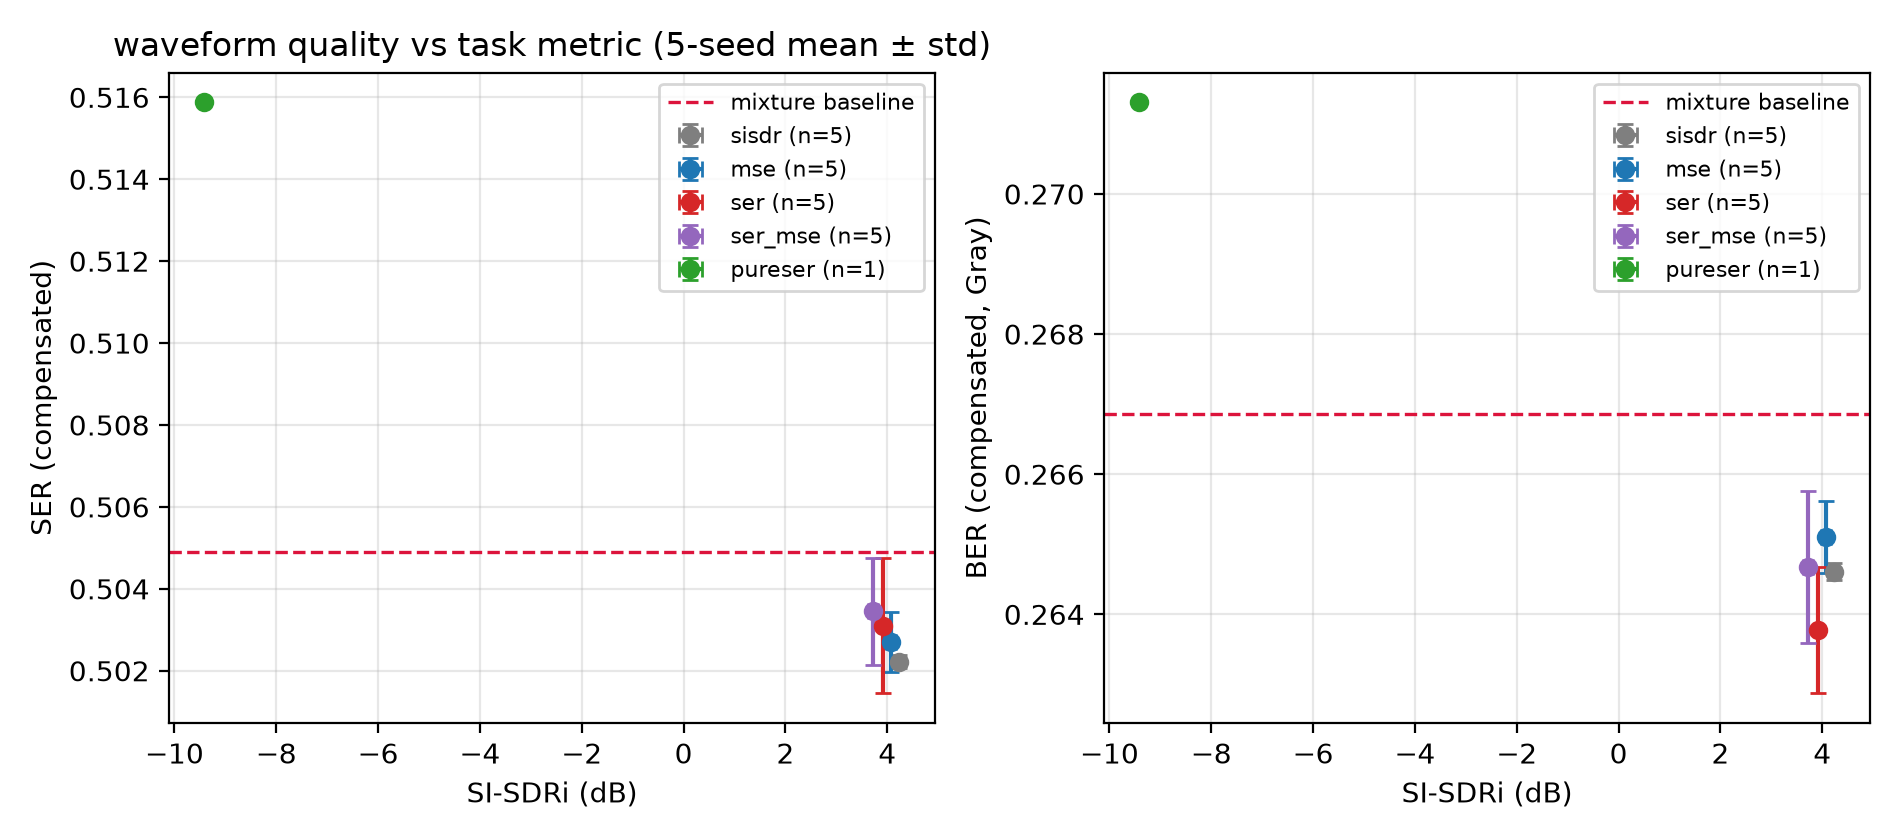
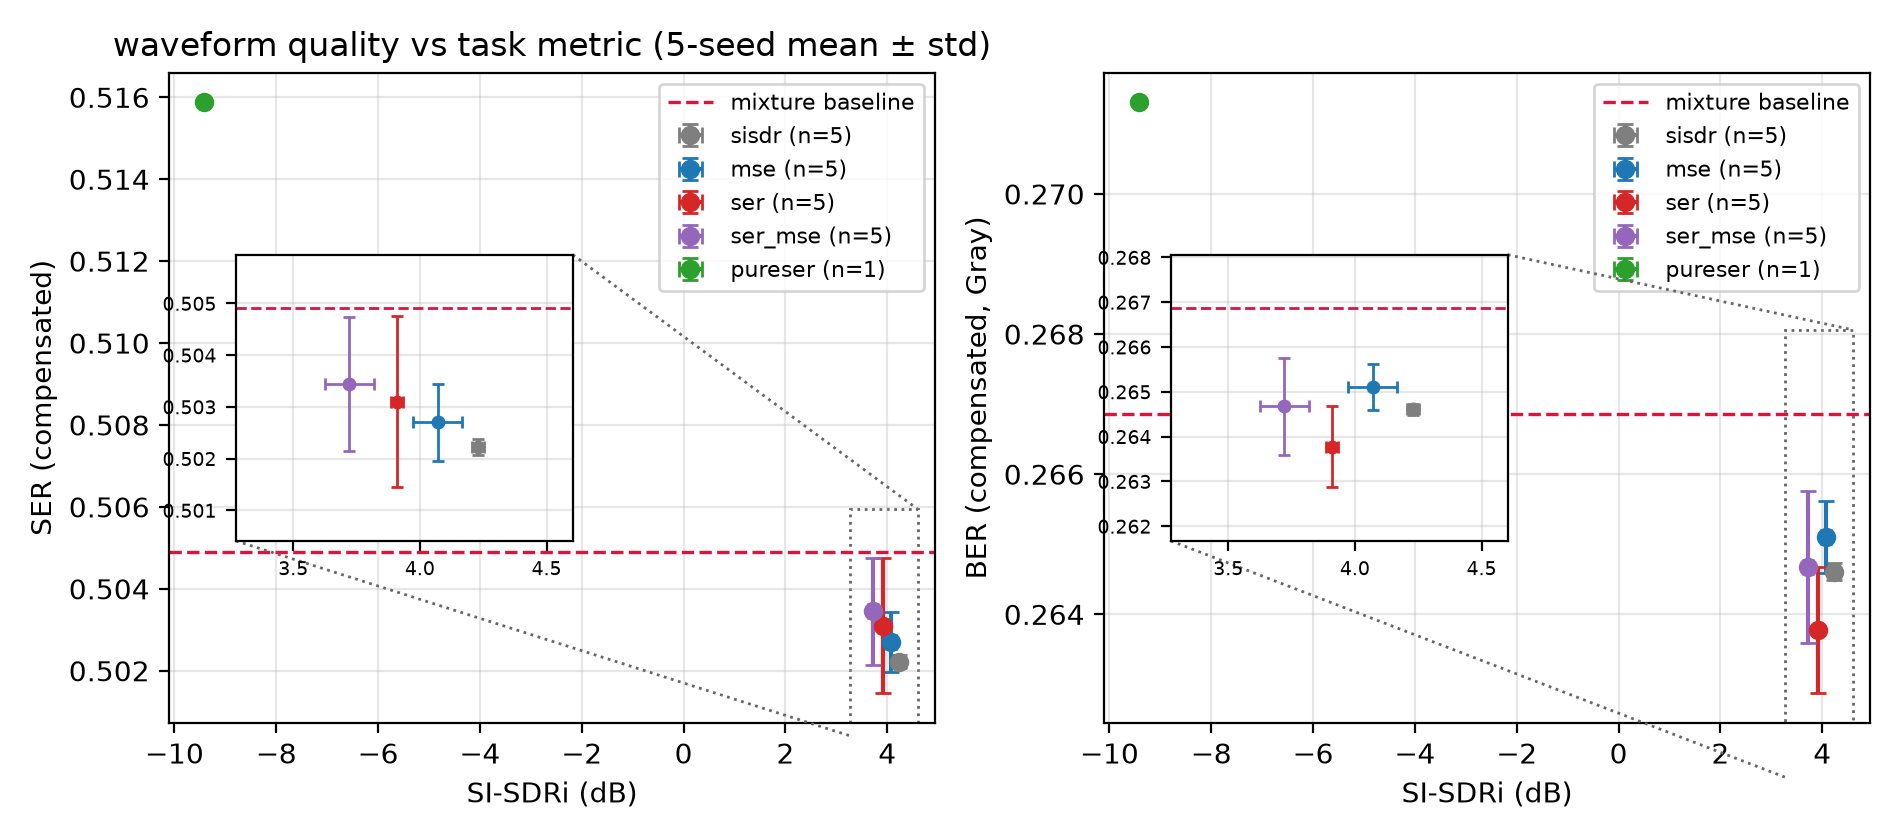
paper5: add zoom inset to S2 Pareto figure; log Fig.1/Eq.2 manuscript fixes
- analyze_s2.py: per-panel zoom inset on the four trained configs
  (pureser outlier excluded), auto zoom range from mean+-std, baseline
  line kept inside inset
- EXPERIMENT_LOG: record Fig.1 gradient-arrow fix, waveform-loss box,
  Eq.2 indicator glyph fix, and this inset change

diff --git a/paper5_task_oriented/analyze_s2.py b/paper5_task_oriented/analyze_s2.py
@@ -166,11 +166,14 @@ def main():
         json.dump(out, f, indent=2)
 
     # ---------------- Pareto figure ----------------
+    from mpl_toolkits.axes_grid1.inset_locator import inset_axes, mark_inset
     fig, axes = plt.subplots(1, 2, figsize=(9.5, 4.2))
     colors = {'sisdr': 'tab:gray', 'mse': 'tab:blue', 'ser': 'tab:red',
               'ser_mse': 'tab:purple', 'pureser': 'tab:green'}
     for ax, key, ylab in ((axes[0], 'ser_comp', 'SER (compensated)'),
                           (axes[1], 'ber_comp', 'BER (compensated, Gray)')):
+        ybase = base['overall'] if key == 'ser_comp' else base['overall_ber']
+        zoom_pts = []          # (mean_x, mean_y, std_x, std_y), trained only
         for c in CONFIGS:
             subs = runs[c]
             if not subs:
@@ -180,14 +183,40 @@ def main():
             ax.errorbar(np.mean(x), np.mean(y), xerr=np.std(x),
                         yerr=np.std(y), fmt='o', color=colors[c],
                         capsize=3, label=f'{c} (n={len(subs)})')
-        ax.axhline(base['overall'] if key == 'ser_comp'
-                   else base['overall_ber'],
-                   color='crimson', ls='--', lw=1.2, label='mixture baseline')
+            if c != 'pureser':
+                zoom_pts.append((np.mean(x), np.mean(y),
+                                 np.std(x), np.std(y)))
+        ax.axhline(ybase, color='crimson', ls='--', lw=1.2,
+                   label='mixture baseline')
         ax.set_xlabel('SI-SDRi (dB)')
         ax.set_ylabel(ylab)
         ax.grid(alpha=0.3)
         ax.legend(fontsize=8)
-        # annotation: lower-left is better (lower SER/BER)
+
+        # zoom inset on the four trained configs (pureser outlier excluded)
+        zp = np.array(zoom_pts)
+        x_lo = (zp[:, 0] - zp[:, 2]).min() - 0.35
+        x_hi = (zp[:, 0] + zp[:, 2]).max() + 0.35
+        y_lo = min((zp[:, 1] - zp[:, 3]).min(), ybase)
+        y_hi = max((zp[:, 1] + zp[:, 3]).max(), ybase)
+        y_pad = 0.3 * (y_hi - y_lo)
+        axins = inset_axes(ax, width='44%', height='44%',
+                           loc='center left', borderpad=2.4)
+        for c in CONFIGS:
+            subs = runs[c]
+            if not subs or c == 'pureser':
+                continue
+            x = [s['separation']['si_sdri'] for s in subs.values()]
+            y = [s['separation'][key] for s in subs.values()]
+            axins.errorbar(np.mean(x), np.mean(y), xerr=np.std(x),
+                           yerr=np.std(y), fmt='o', color=colors[c],
+                           capsize=2, ms=4, lw=1)
+        axins.axhline(ybase, color='crimson', ls='--', lw=1)
+        axins.set_xlim(x_lo, x_hi)
+        axins.set_ylim(y_lo - y_pad, y_hi + y_pad)
+        axins.grid(alpha=0.3)
+        axins.tick_params(labelsize=7)
+        mark_inset(ax, axins, loc1=1, loc2=3, fc='none', ec='0.4', ls=':')
     axes[0].set_title('waveform quality vs task metric (5-seed mean ± std)')
     fig.tight_layout()
     os.makedirs(FIGS, exist_ok=True)

diff --git a/paper5_task_oriented/EXPERIMENT_LOG.md b/paper5_task_oriented/EXPERIMENT_LOG.md
@@ -929,3 +929,37 @@ training proxy），虚线橙箭头回传梯度；oracle 侧信息（s_k/f_k/m_k
 终版排版注意：图宽 17.2cm，final,3p 下应改用 figure* 跨栏
 （main.tex 中已留 NOTE 注释）。编译：review 41 页 / final 3p 17 页
 （≤20），无 ?? 引用。
+
+## 2026-09-10 Fig. 1 修订轮（梯度箭头方向 + 左下填充）
+
+反馈：gradients 虚线箭头末端指向错误（原 `|-` 路径末段为水平，
+箭头贴着 separator 右缘朝左）；图左下偏空。
+修订（paper5/figures/pipeline.tex）：
+1. 梯度路径改走底部环路：train.west → 左 → 下 → 沿底部水平 →
+   垂直向上进入 separator 底部（`-|` 末段垂直，箭头朝上），
+   "gradients" 标签移至底部水平段。
+2. 左下新增 "waveform PIT loss (−ΔSI-SDR + MSE anchor)" 框，
+   箭头进入 separator 底部左侧（分离器本来就由波形损失+任务项
+   共同训练，信息属实），同时填补左下空白。
+3. 图注补述波形 PIT 损失框。
+验证：pipeline.pdf 重渲染确认两处修正；main.pdf review 41 页 /
+final 3p 15 页（≤20），0 个 ?? 引用；graphical_abstract.pdf
+同步更新。
+
+## 2026-09-10 Eq.(2) 指示函数字形修复
+
+main.tex:414 `\mathbb{1}` 在 amsfonts 下无数字字形，PDF 中渲染为
+乱码符号（⊮）。本机 BasicTeX 无 dsfont/bbm/bbold，改 `\mathbf{1}`
+（指标函数通用写法之一）。全文仅此一处 `\mathbb{<数字>}`；
+`\mathbb{C}` 大写正常。重编译渲染确认正常（main.pdf 41 页）。
+
+## 2026-09-10 Fig. 4 (s2_pareto) 加局部放大 inset
+
+反馈：主图上四个训练配置缩在右下角难以分辨。
+在 analyze_s2.py 的 Pareto 图两个面板各加一个 zoom inset
+（mpl_toolkits inset_axes + mark_inset 虚线框）：放大四个训练配置
+（pureser 离群点不进 inset），inset 内保留 mixture baseline 虚线，
+可看清 ser_mse 略高于基线、其余三者略低于基线、误差棒互相重叠。
+zoom 范围由训练配置的 mean±std 自动计算。已重跑 analyze_s2.py
+（summary_s2.json 重生成，数值不变），PDF/PNG 同步到 paper5/figures，
+main.pdf 重编译 41 页。
